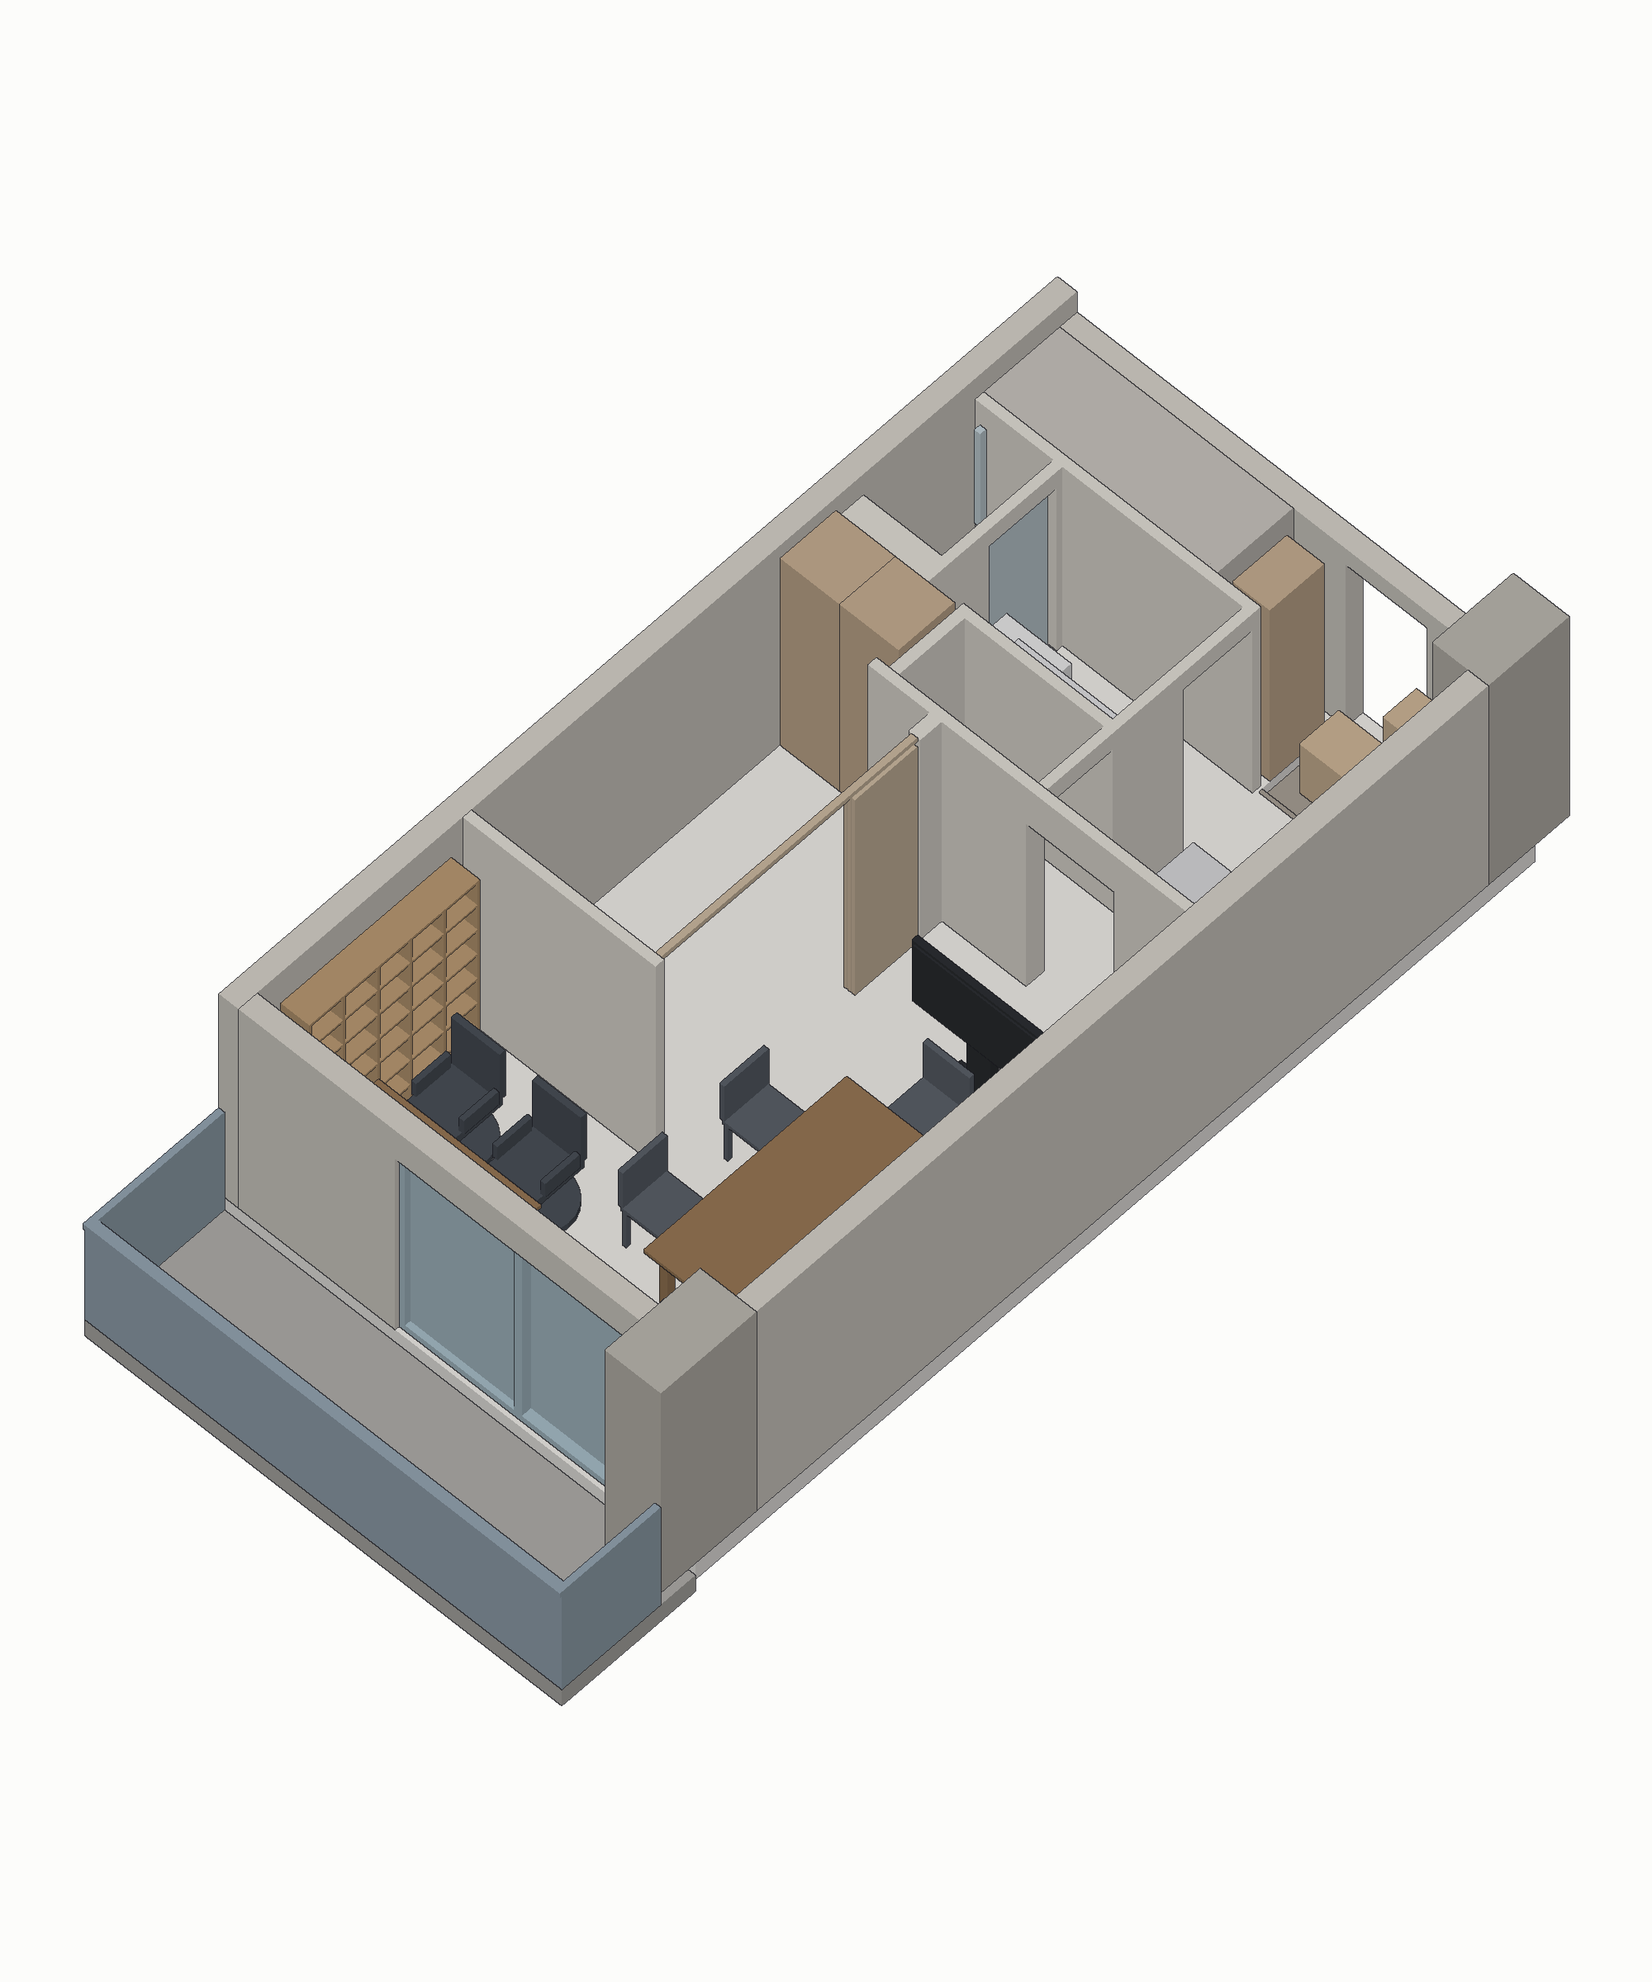
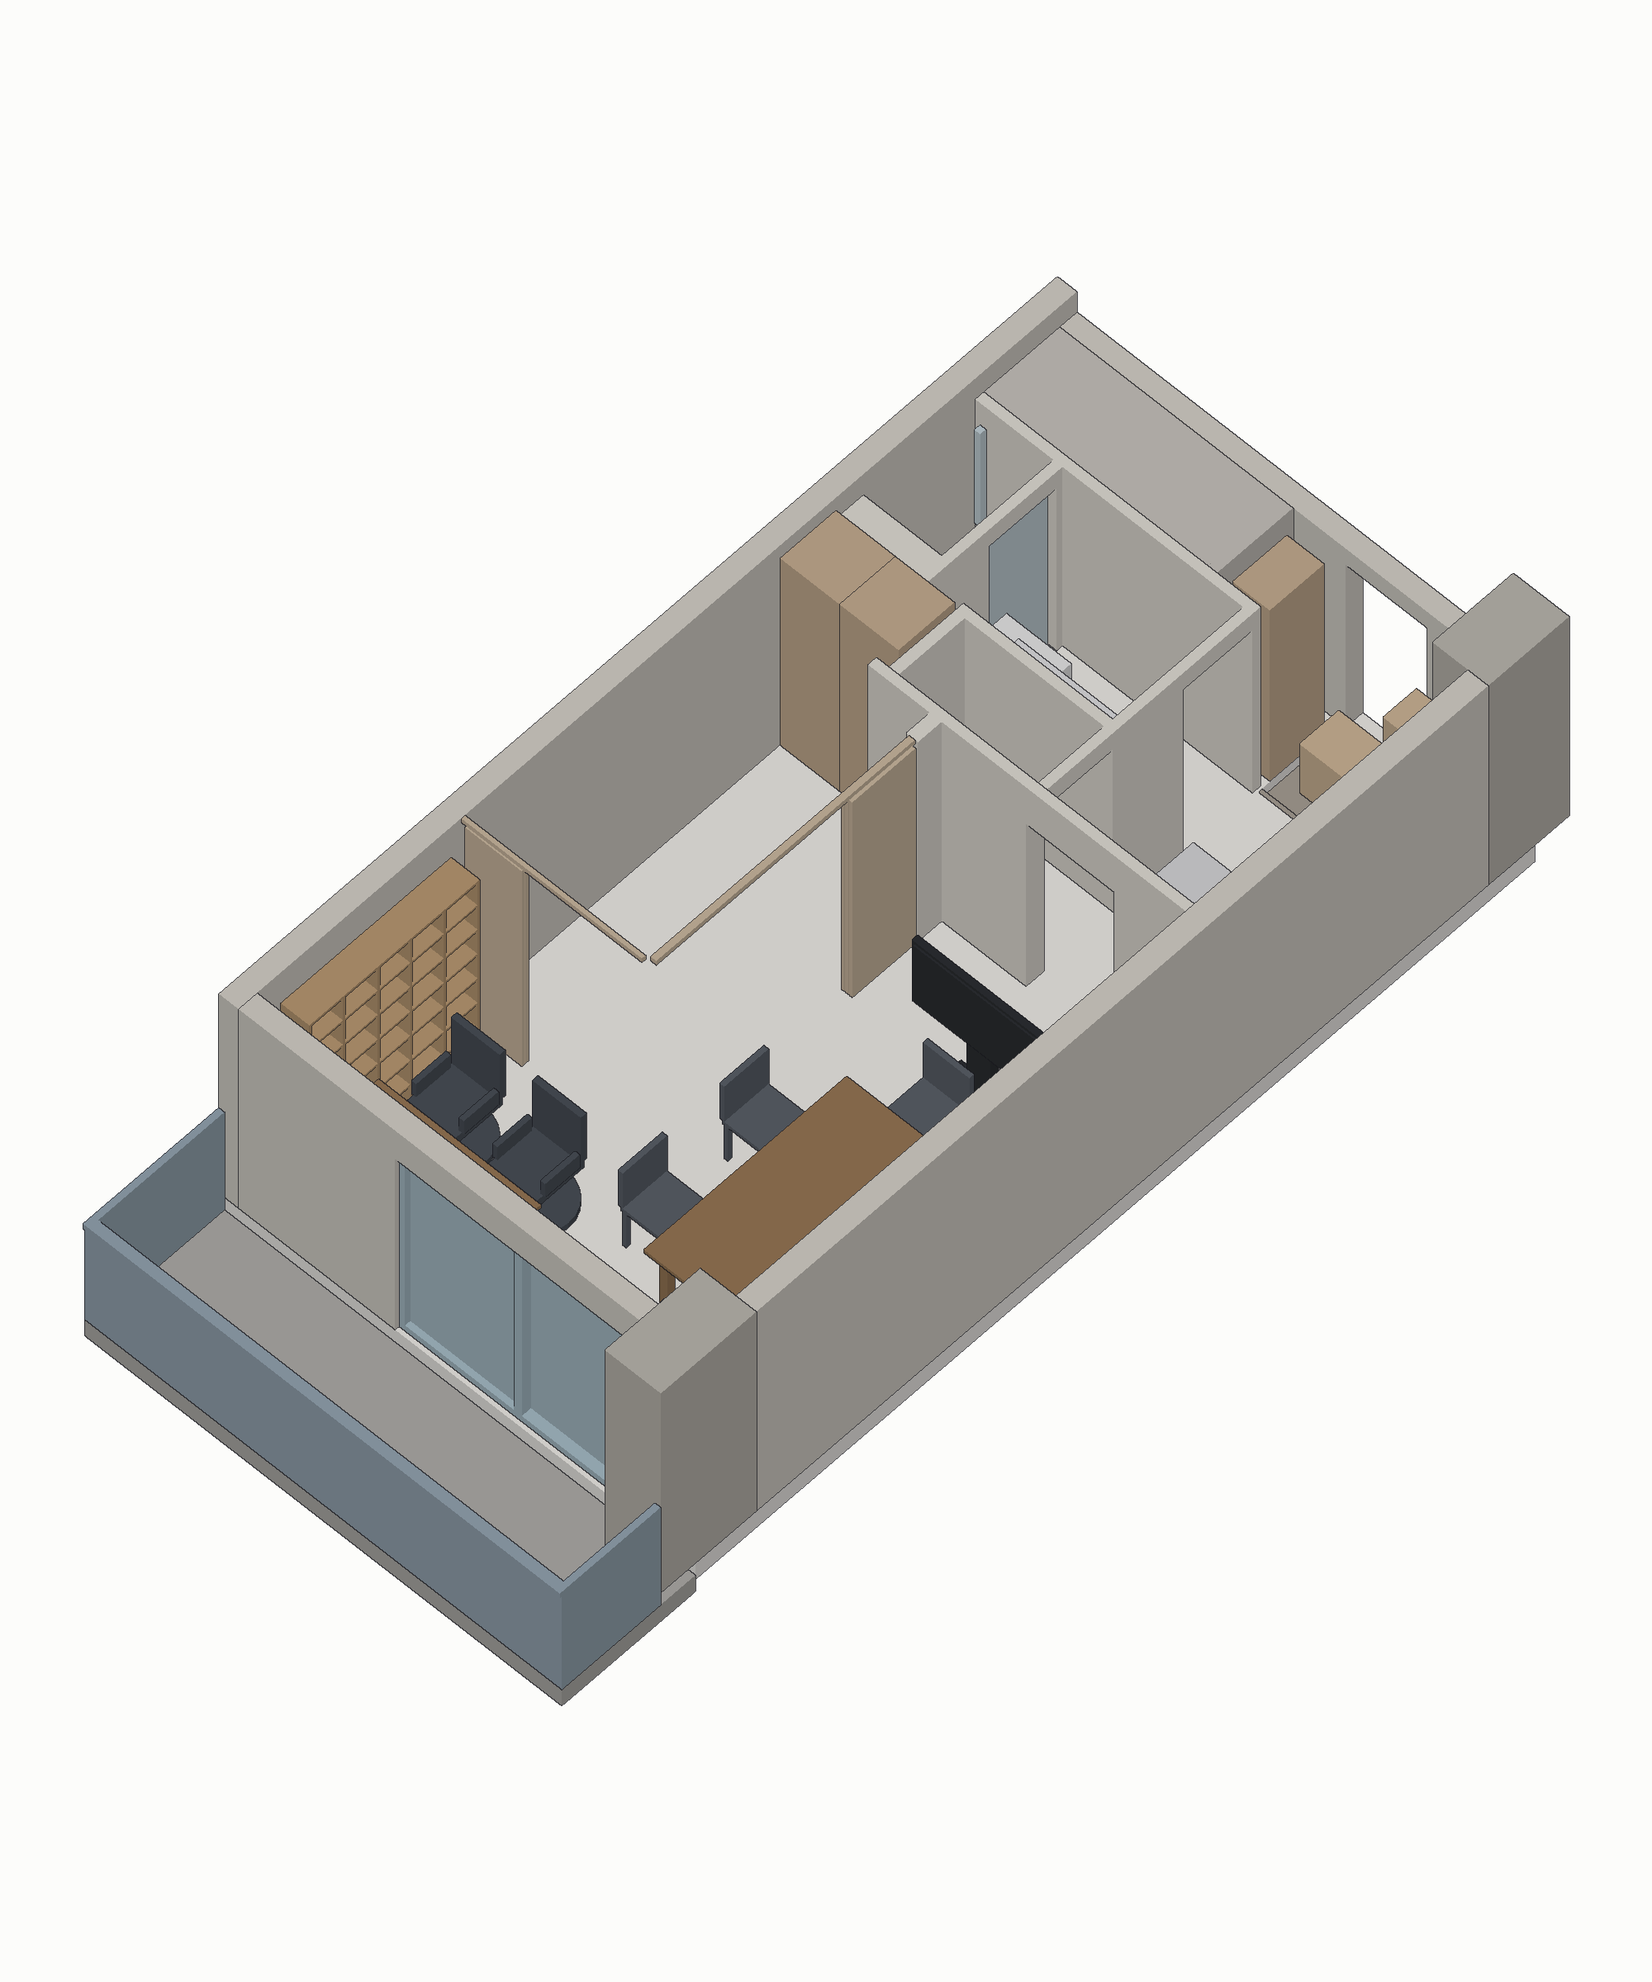
Correct the bedroom partition to an L-shaped movable wall
Re-measuring the approved plan shows the partition has two legs, not
one. The east-west line on the master bedroom's south side, which the
first version classified as a fixed interior wall, is the same sliding
system as the north-south leg: both are drawn as thin double lines
with hanger ticks, distinct from the solid-filled structural walls.

Pixel evidence: the north-south leg runs at x=799 (X 2008) with
hangers at y 651-654 and 696-700 and a dashed pocket at y 551-606
(Y 4330-5035); the east-west leg runs at y=759/762 (Y 2318-2356) with
a dashed pocket at x 658-709 (X 195-850). Each pocket is exactly one
leaf long, which holds on both legs (705 >= 657, 655 >= 563).

So the two legs meet at the bedroom's south-east corner and each
pocket sits at the end furthest from it. Opening both clears 1125 mm
on the south and 1970 mm on the east at once, leaving the corner fully
open - the L-shaped opening. The south leg is removed from WALL_INT
and folded into MOVABLE_WALL; the only fixed return is the pier at
Y 5035-5280.

render_validation.py now reports both legs separately.

Claude-Session: https://claude.ai/code/session_01PLD8dd8RCVBaEMiq9C1GPw

Changed region(s): [[0.279, 0.4062, 0.403, 0.5938]]

diff --git a/soho1415/geometry_master.py b/soho1415/geometry_master.py
@@ -121,20 +121,46 @@ FURNITURE_XY_LOCK = {
 }
 
 # ---------------------------------------------------------------------
-# 可動収納壁 (ベッドルーム間仕切) の状態
-#   平面図実測: レール Y 2410-5060 / 戸袋 Y 4350-5060 / 建具走行 Y 2410-4350
-#               作図上のパネル継ぎ目は Y 3065 付近・Y 3660 付近 (3 枚引込み)
-#   MOVABLE_WALL_STATE = "OPEN"   -> 常時開放。3 枚とも戸袋に納まる。
-#                        "CLOSED" -> 参考用。走行範囲を塞いだ状態。
-#   どちらでもレール・戸袋・袖壁の XY は変わらない。
+# 可動収納壁 (ベッドルーム間仕切) -- L 字 / 常時開放
+#
+# 平面図実測 (投影プロファイルによる画素実測):
+#   南北レッグ (MBR 東側)
+#     建具ライン x=799 (X 2008) / 吊り金物 y 651-654, 696-700
+#     戸袋(破線) y 551-606        -> Y 4330-5035 (705)
+#     走行範囲                    -> Y 2360-4330 (1970) = 3 枚 x 657
+#   東西レッグ (MBR 南側)
+#     建具ライン y=759,762        -> Y 2318-2356 (薄い引戸の二重線)
+#     戸袋(破線) x 658-709        -> X  195- 850 (655)
+#     走行範囲                    -> X  850-1975 (1125) = 2 枚 x 563
+#
+#   2 本のレッグは MBR 南東コーナーで直交し、戸袋はそれぞれコーナーから
+#   最も遠い端 (北端 / 西端) にある。両方を引き込むとコーナーが完全に開き、
+#   MBR は南側と東側の 2 面が開放される = L 字開放。
+#
+#   ※ 旧版ではこの東西レッグを固定内壁と誤判断していた。躯体壁ではない。
+#
+#   MOVABLE_WALL_STATE = "OPEN"   -> 常時開放 (既定)
+#                        "CLOSED" -> 参考用
+#   いずれの状態でもレール・戸袋・袖壁の XY は不変。
 # ---------------------------------------------------------------------
-MOVABLE_WALL_STATE = "OPEN"          # ベッドルーム間仕切壁は常時開放
-MOVW_RAIL_Y   = (2410.0, 5060.0)     # レール全長
-MOVW_OPENING  = (2410.0, 4350.0)     # 建具走行範囲 (開放時はここが素通し)
-MOVW_POCKET_Y = (4350.0, 5060.0)     # 戸袋
-MOVW_PANELS   = 3
-MOVW_PANEL_X  = [(1983.0, 2015.0), (2023.0, 2055.0), (2063.0, 2095.0)]  # 3 レーン
-MOVW_PANEL_H  = 2400.0
+MOVABLE_WALL_STATE = "OPEN"          # ベッドルーム間仕切壁は常時開放 (L 字)
+
+# 南北レッグ (MBR 東側)
+MOVW_NS_X       = (1975.0, 2095.0)   # 建具ゾーン
+MOVW_NS_LANES   = [(1983.0, 2015.0), (2023.0, 2055.0), (2063.0, 2095.0)]
+MOVW_NS_TRAVEL  = (2360.0, 4330.0)   # 閉時に塞ぐ範囲
+MOVW_NS_POCKET  = (4330.0, 5035.0)   # 戸袋 (北端)
+MOVW_NS_PANELS  = 3
+
+# 東西レッグ (MBR 南側)
+MOVW_EW_Y       = (2290.0, 2360.0)   # 建具ゾーン
+MOVW_EW_LANES   = [(2292.0, 2324.0), (2328.0, 2360.0)]
+MOVW_EW_TRAVEL  = (850.0, 1975.0)    # 閉時に塞ぐ範囲
+MOVW_EW_POCKET  = (195.0, 850.0)     # 戸袋 (西端)
+MOVW_EW_PANELS  = 2
+
+MOVW_PANEL_H    = 2400.0
+MOVW_PIER_Y     = (5035.0, 5280.0)   # 北端の固定袖壁
 
 # 既存 Book Shelf : 承認済み平面図の実測値 -- 変更禁止
 BOOK_SHELF = dict(x0=205.0, x1=490.0, y0=425.0, y1=2190.0, z1=2100.0,
@@ -225,8 +251,7 @@ def parts():
     # 内壁  INTERIOR WALLS
     # -----------------------------------------------------------------
     iw = []
-    # MBR 南壁
-    iw.append(_b(X_IN_W, X_WALL_MBR_E[1], Y_WALL_MBR_S[0], Y_WALL_MBR_S[1], FL, CH_MAIN))
+    # ※ MBR 南側は固定壁ではなく可動収納壁の東西レッグ (MOVABLE_WALL を参照)
     # 便所南壁 + LD 入口壁 (開口部を残す)
     iw.append(_b(X_WALL_CLO_WC[0], OPEN_LD_DOOR[0], Y_WALL_WC_S[0], Y_WALL_WC_S[1], FL, CH_MAIN))
     iw.append(_b(OPEN_LD_DOOR[1], X_IN_E, Y_WALL_WC_S[0], Y_WALL_WC_S[1], FL, CH_MAIN))
@@ -249,7 +274,7 @@ def parts():
     # 洗面室北壁 / PS 南壁 (玄関土間まで)
     iw.append(_b(X_IN_W, X_WALL_WET_E[1], Y_WALL_PWD_N[0], Y_WALL_PWD_N[1], FL, CH_WET))
     # MBR 東 : 可動壁の戸袋側 袖壁
-    iw.append(_b(X_WALL_MBR_E[0], X_WALL_MBR_E[1], 5060, Y_WALL_WC_S[0], FL, CH_MAIN))
+    iw.append(_b(MOVW_NS_X[0], MOVW_NS_X[1], MOVW_PIER_Y[0], Y_WALL_WC_S[0], FL, CH_MAIN))
     add("WALL_INT", "内壁", iw)
 
     # -----------------------------------------------------------------
@@ -345,21 +370,32 @@ def parts():
     # -----------------------------------------------------------------
     # 可動収納壁 / レール
     # -----------------------------------------------------------------
-    mx0, mx1 = X_WALL_MBR_E
-    plen = (MOVW_OPENING[1] - MOVW_OPENING[0]) / MOVW_PANELS
     mw = []
+    ns_len = (MOVW_NS_TRAVEL[1] - MOVW_NS_TRAVEL[0]) / MOVW_NS_PANELS
+    ew_len = (MOVW_EW_TRAVEL[1] - MOVW_EW_TRAVEL[0]) / MOVW_EW_PANELS
     if MOVABLE_WALL_STATE == "OPEN":
-        # 常時開放 : 3 枚とも戸袋 (Y 4350-5060) に納まり、走行範囲は素通し
-        pc = (MOVW_POCKET_Y[0] + MOVW_POCKET_Y[1]) / 2.0
-        for x0, x1 in MOVW_PANEL_X:
-            mw.append(_b(x0, x1, pc - plen / 2, pc + plen / 2, FL, MOVW_PANEL_H))
+        # 常時開放 : 各レッグの建具はコーナーから最も遠い戸袋へ引き込む
+        c = (MOVW_NS_POCKET[0] + MOVW_NS_POCKET[1]) / 2.0
+        for x0, x1 in MOVW_NS_LANES:
+            mw.append(_b(x0, x1, c - ns_len / 2, c + ns_len / 2, FL, MOVW_PANEL_H))
+        c = (MOVW_EW_POCKET[0] + MOVW_EW_POCKET[1]) / 2.0
+        for y0, y1 in MOVW_EW_LANES:
+            mw.append(_b(c - ew_len / 2, c + ew_len / 2, y0, y1, FL, MOVW_PANEL_H))
     else:
-        # 参考 : 閉。3 枚が 1 本のライン上に並ぶ
-        for i in range(MOVW_PANELS):
-            y0 = MOVW_OPENING[0] + i * plen
-            mw.append(_b(mx0 + 15, mx1 - 15, y0, y0 + plen, FL, MOVW_PANEL_H))
-    mw.append(_b(mx0 + 30, mx1 - 30, MOVW_RAIL_Y[0], MOVW_RAIL_Y[1],
-                 MOVW_PANEL_H, CH_MAIN))                       # レール
+        # 参考 : 閉。L 字に建具が並び MBR が閉じる
+        for i in range(MOVW_NS_PANELS):
+            y0 = MOVW_NS_TRAVEL[0] + i * ns_len
+            mw.append(_b(MOVW_NS_X[0] + 15, MOVW_NS_X[1] - 15, y0, y0 + ns_len,
+                         FL, MOVW_PANEL_H))
+        for i in range(MOVW_EW_PANELS):
+            x0 = MOVW_EW_TRAVEL[0] + i * ew_len
+            mw.append(_b(x0, x0 + ew_len, MOVW_EW_Y[0] + 15, MOVW_EW_Y[1] - 15,
+                         FL, MOVW_PANEL_H))
+    # レール (L 字・状態によらず不変)
+    mw.append(_b(MOVW_NS_X[0] + 30, MOVW_NS_X[1] - 30,
+                 MOVW_NS_TRAVEL[0], MOVW_NS_POCKET[1], MOVW_PANEL_H, CH_MAIN))
+    mw.append(_b(MOVW_EW_POCKET[0], MOVW_EW_TRAVEL[1],
+                 MOVW_EW_Y[0] + 15, MOVW_EW_Y[1] - 15, MOVW_PANEL_H, CH_MAIN))
     add("MOVABLE_WALL", "可動収納壁／レール", mw)
 
     # -----------------------------------------------------------------

diff --git a/soho1415/render_validation.py b/soho1415/render_validation.py
@@ -191,10 +191,15 @@ def main():
 
     print("\n--- movable wall (bedroom partition) ---")
     mw = [m for m in build()[1] if m["object"] == "MOVABLE_WALL"][0]
-    print("state: %s  | 開口 Y %.0f-%.0f (%.0f mm) は素通し | 戸袋 Y %.0f-%.0f"
-          % (GM.MOVABLE_WALL_STATE, GM.MOVW_OPENING[0], GM.MOVW_OPENING[1],
-             GM.MOVW_OPENING[1] - GM.MOVW_OPENING[0],
-             GM.MOVW_POCKET_Y[0], GM.MOVW_POCKET_Y[1]))
+    print("state: %s (L 字)" % GM.MOVABLE_WALL_STATE)
+    print("  南北レッグ 開口 Y %.0f-%.0f (%.0f mm) 素通し | 戸袋 Y %.0f-%.0f (%d 枚)"
+          % (GM.MOVW_NS_TRAVEL[0], GM.MOVW_NS_TRAVEL[1],
+             GM.MOVW_NS_TRAVEL[1] - GM.MOVW_NS_TRAVEL[0],
+             GM.MOVW_NS_POCKET[0], GM.MOVW_NS_POCKET[1], GM.MOVW_NS_PANELS))
+    print("  東西レッグ 開口 X %.0f-%.0f (%.0f mm) 素通し | 戸袋 X %.0f-%.0f (%d 枚)"
+          % (GM.MOVW_EW_TRAVEL[0], GM.MOVW_EW_TRAVEL[1],
+             GM.MOVW_EW_TRAVEL[1] - GM.MOVW_EW_TRAVEL[0],
+             GM.MOVW_EW_POCKET[0], GM.MOVW_EW_POCKET[1], GM.MOVW_EW_PANELS))
     print("object bbox (panels + rail):", mw["bbox_min"], mw["bbox_max"])
 
     a = GM.areas()

diff --git a/soho1415/README.md b/soho1415/README.md
@@ -102,7 +102,7 @@ Y_mm = (942 - px_y) × 12.875
 | Refrigerator | `REFRIGERATOR` |
 | Closet | `CLOSET_1` `CLOSET_2` |
 | 既存Book Shelf | `BOOK_SHELF_EXISTING` |
-| 可動収納壁／レール | `MOVABLE_WALL`（**常時開放** — 下記） |
+| 可動収納壁／レール | `MOVABLE_WALL`（**L字・常時開放** — 下記） |
 | 窓／サッシ | `WINDOW_SASH` |
 | 2人用ワークデスク | `DESK_2P` |
 | 執務チェア2脚 | `TASK_CHAIR_1` `TASK_CHAIR_2` |
@@ -116,27 +116,44 @@ Y_mm = (942 - px_y) × 12.875
 
 ---
 
-## ベッドルーム間仕切壁 — 常時開放
+## ベッドルーム間仕切壁 — L字・常時開放
 
-平面図の実測値：
+可動収納壁は**L字**。Master Bedroomの**南側**と**東側**の2面が建具で、
+南東コーナーで直交する。戸袋はそれぞれコーナーから最も遠い端にある。
 
-| 項目 | Y範囲 | 長さ |
-|---|---|---|
-| レール全長 | 2410 – 5060 | 2650 |
-| 建具走行範囲（閉時に塞がる部分） | 2410 – 4350 | 1940 |
-| 戸袋 | 4350 – 5060 | 710 |
-| 袖壁（固定） | 5060 – 5330 | 270 |
+| レッグ | 建具ゾーン | 走行範囲（閉時に塞ぐ） | 戸袋 | 枚数 |
+|---|---|---|---|---|
+| 南北（MBR東側） | X 1975–2095 | Y 2360–4330（1970） | Y 4330–5035（北端） | 3枚×657 |
+| 東西（MBR南側） | Y 2290–2360 | X 850–1975（1125） | X 195–850（西端） | 2枚×563 |
 
-作図上のパネル継ぎ目が Y 3065 付近・Y 3660 付近にあることから **3枚引込み**
-（1枚あたり約647mm）と判断した。戸袋長さ710mmは1枚分に一致する。
+固定部は北端の袖壁 Y 5035–5280 のみ。
 
-**`MOVABLE_WALL_STATE = "OPEN"`（常時開放）**
-3枚とも戸袋（Y 4350–5060）に納まり、**Y 2410–4350 の1940mmは素通し**。
-Master BedroomとLiving Diningは常時ひと続きの空間となる。
-パネルは3レーン（X 1983–2015 / 2023–2055 / 2063–2095）に振り分けて格納。
+### 図面からの根拠（画素実測）
+
+```
+南北レッグ  建具ライン x=799 (X 2008) / 吊り金物 y 651-654, 696-700
+            戸袋(破線) y 551-606   -> Y 4330-5035
+東西レッグ  建具ライン y=759,762   -> Y 2318-2356（薄い引戸の二重線）
+            戸袋(破線) x 658-709   -> X  195- 850
+```
+
+両レッグとも「細い二重線＋吊り金物のティック」で描かれており、
+躯体壁の太い塗り潰しとは描き分けられている。
+戸袋長さが建具1枚分にちょうど一致する点も両レッグで整合する
+（南北 705 ≧ 657／東西 655 ≧ 563）。
+
+> **訂正** — 初版ではこの東西レッグを「MBR南壁」として固定内壁に分類していた。
+> 躯体壁ではなく可動建具であり、`WALL_INT` から除外して `MOVABLE_WALL` に移した。
+
+### 常時開放（既定）
+
+`MOVABLE_WALL_STATE = "OPEN"` で両レッグとも戸袋に引き込み、
+**南側1125mm・東側1970mmが同時に素通し**となる。
+南東コーナーが完全に開き、Master Bedroomは
+Living Diningおよび西ベイ（Book Shelf側）と一体の空間になる。
 
 レール・戸袋・袖壁のXYは開閉状態によらず不変。
-参考用に `MOVABLE_WALL_STATE = "CLOSED"` へ切り替えれば閉状態も生成できるが、
+参考用に `"CLOSED"` へ切り替えれば閉状態も生成できるが、
 **既定は常時開放**であり、室内パースもこの状態で撮影する。
 
 ---
@@ -162,7 +179,9 @@ out-of-envelope objects: none
 forbidden names found: none
 BOOK SHELF bbox: [205.0, 425.0, 0.0] [490.0, 2190.0, 2100.0]  大型化なし
 --- movable wall (bedroom partition) ---
-state: OPEN  | 開口 Y 2410-4350 (1940 mm) は素通し | 戸袋 Y 4350-5060
+state: OPEN (L 字)
+  南北レッグ 開口 Y 2360-4330 (1970 mm) 素通し | 戸袋 Y 4330-5035 (3 枚)
+  東西レッグ 開口 X  850-1975 (1125 mm) 素通し | 戸袋 X  195- 850 (2 枚)
 --- area check ---
 gross   40.77 m2 (spec 40.76)  diff +0.03%
 balcony  6.51 m2 (spec  6.40)  diff +1.71%
@@ -229,7 +248,7 @@ Kitchen（コンロ／シンク）・Refrigerator・Book Shelf・可動収納壁
 
 同一モデルの別カメラレンダリングであるため、壁が増える・Book Shelfが変わる・
 ベッドが出現する・家具が移動する・部屋が広くなることは構造上起こらない。
-ベッドルーム間仕切壁も常時開放のまま固定される。
+ベッドルーム間仕切壁もL字・常時開放のまま固定される。
 
 最終工程でAIを使うのは **材質・光・質感・フォトリアリズムのみ**。
 AIによるgeometry変更は禁止。
